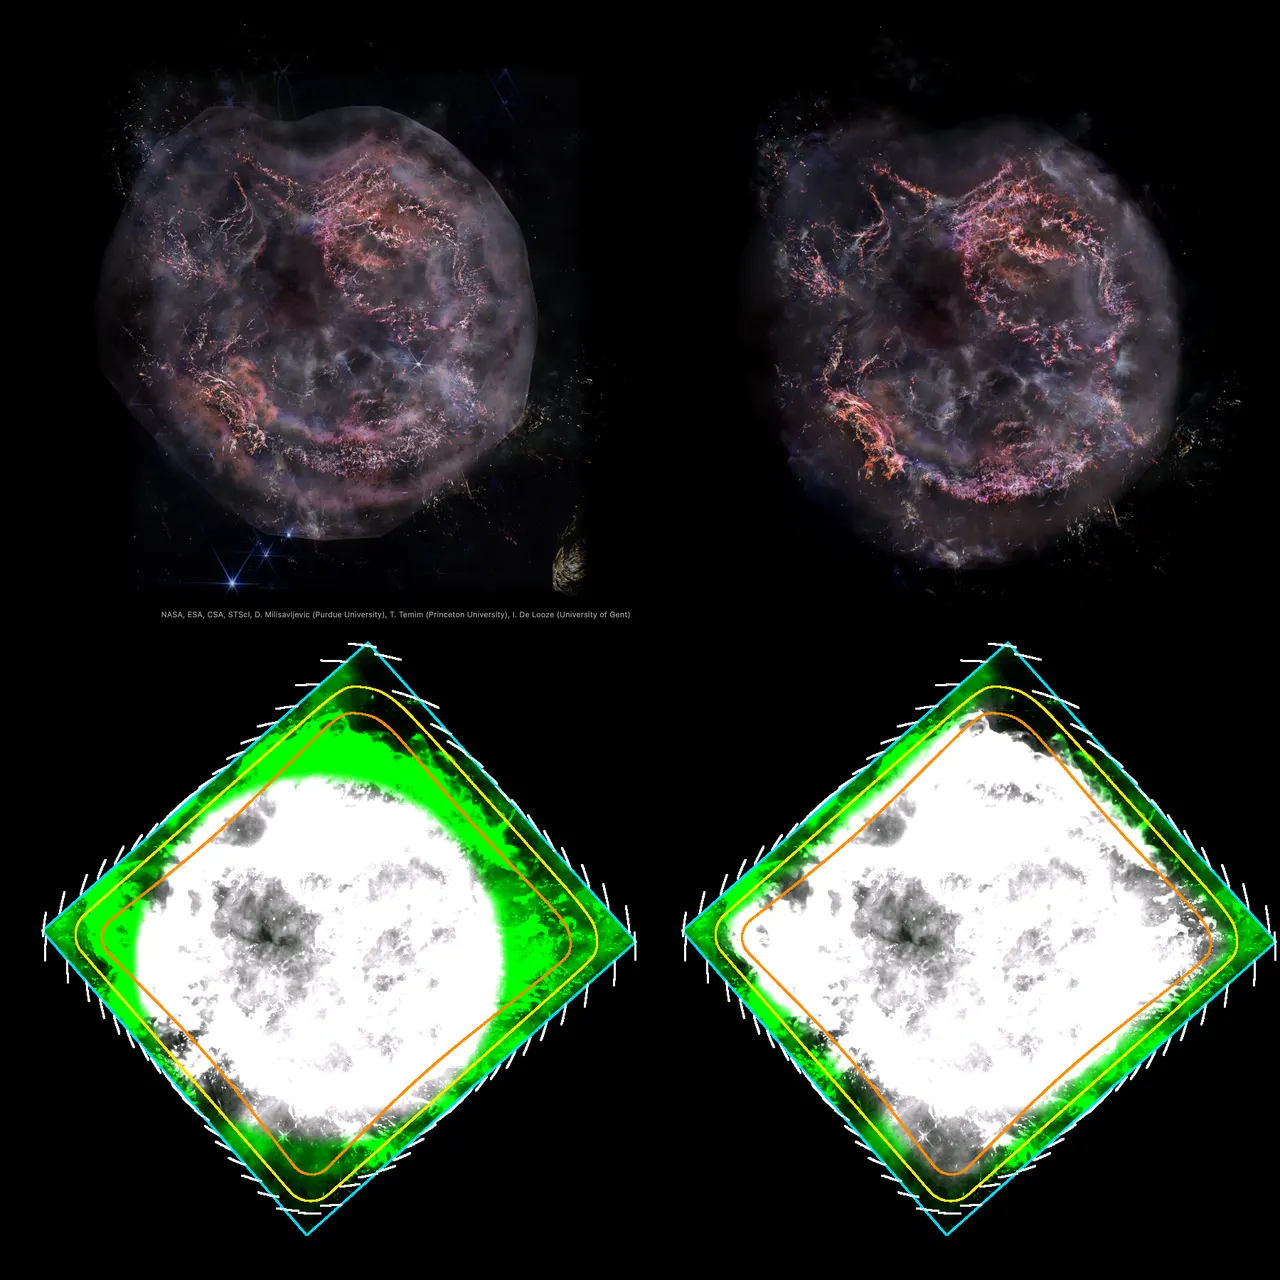
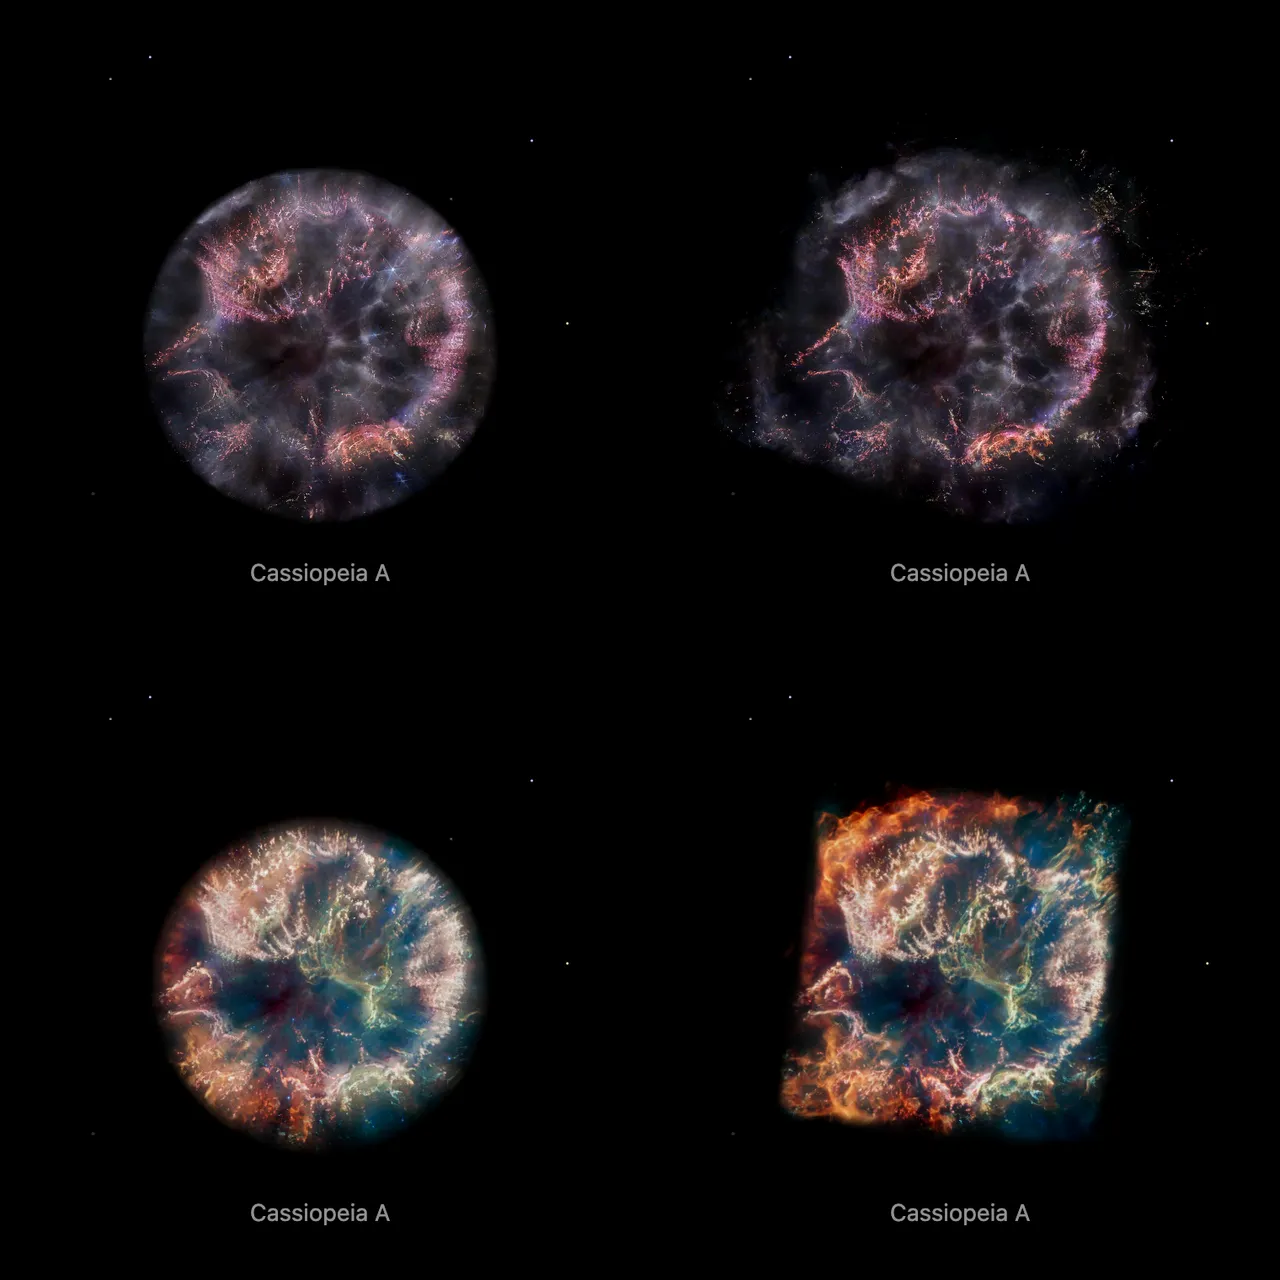
docs(objects): show Cassiopeia A's page before and after the rebake in both Webb datasets

diff --git a/src/objects/cassiopeia-a-layers/README.md b/src/objects/cassiopeia-a-layers/README.md
@@ -29,17 +29,9 @@ ESA/Webb's NIRCam picture of the supernova remnant Cassiopeia A, drawn as the sh
 
 ## Evidence
 
-![Cassiopeia A turned: obliquely, farther round, and from above](evidence/2026-10-04/views.jpg)
+![Cassiopeia A's page as it opens, before and after the rebake of 2026-10-09: near infrared above, mid infrared below](evidence/2026-10-09/before-after.webp)
 
-The page in headless Chromium at 1440 × 900, device pixel ratio 2, on 2026-10-04, with the camera turned. No page errors.
-
-![Cassiopeia A as its page opens and at the nearest view](evidence/2026-10-04/front.jpg)
-
-The same page as it opens, and from the nearest the camera comes.
-
-![Before and after the rebake of 2026-10-09: this bank in the Earth view, and the light the MIRI bank draws inside its boundary](evidence/2026-10-09/before-after.webp)
-
-Top: this bank in the Earth view before the rebake (its stars and their spikes kept) and after it (the rounded boundary, the stars removed with their spikes). Bottom: the MIRI bank's picture, its light above the sky drawn in white and left out in green, on the old 142.8″ circle (69.9% drawn) and on the boundary (87.1%), as [its README](../cassiopeia-a-miri-layers/README.md) reports. Lab captures, headless Chromium at 1440 × 900, device pixel ratio 2.
+The page as it opens, in each Webb dataset: left, `main`'s banks (a circle, the stars and their spikes kept); right, this rebake (the rounded boundary, the outer knots beyond the shock, the stars removed with their spikes). The same Earth view and crop for all four, the site in headless Chromium at 1440 × 900, device pixel ratio 2, on 2026-10-09. No page errors. Refreshed turned and nearest views of this version follow.
 
 The bake's tests ([shape-speed.test.ts](../../../packages/bake/src/image-layers/shape-speed.test.ts), [shape-patches.test.ts](../../../packages/bake/src/image-layers/shape-patches.test.ts)) put a knot measured approaching at 12 km/s 6″ in front of the plane and one receding at 16 km/s 8″ behind it under a law of 2 km/s per arcsecond, keep an unmeasured knot on the plane, find the glow on two walls as far in front of the plane as behind it, the far one holding no less than the near one, composite the leaves in the order the stack paints them against the flat bake of the same picture, and check that two patches that share a pixel stand at the same depth there. The Ring Nebula's and NGC 2392's banks, baked again with this code, are the same as published, file for file.
 

diff --git a/src/objects/cassiopeia-a-miri-layers/README.md b/src/objects/cassiopeia-a-miri-layers/README.md
@@ -32,15 +32,7 @@ ESA/Webb's mid-infrared picture of the supernova remnant Cassiopeia A, as a shel
 
 ## Evidence
 
-![Cassiopeia A in Webb's mid-infrared picture, turned: obliquely, farther round, and from above](evidence/2026-10-05/views.jpg)
-
-The page with this dataset selected, in headless Chromium at 1440 × 900, device pixel ratio 2, on 2026-10-05, with the camera turned. No page errors.
-
-![The same dataset as the page opens on it, at the nearest view, and there turned](evidence/2026-10-05/front.jpg)
-
-The same dataset as the page opens on it, from the nearest the camera comes, and from there turned.
-
-Both pictures are of the bank before 2026-10-09, drawn to the 142.8″ circle with its stars. The rebake of 2026-10-09 was checked in the lab (Earth view, turned 60°, and the Original beside them, headless Chromium at 1440 × 900, device pixel ratio 2, no page errors) and by the scans below; its pictures stay in ignored `output/cas-a-miri/`.
+The page as it opens in this dataset, before and after the rebake of 2026-10-09, is the lower row of [the near-infrared bank's evidence](../cassiopeia-a-layers/README.md#evidence). The rebake was also checked in the lab (Earth view, turned 60°, and the Original beside them, headless Chromium at 1440 × 900, device pixel ratio 2, no page errors) and by the scans below. Refreshed turned and nearest views of this version follow.
 
 The bake code this rebake added: the filled part standing for the frame (`fadeOutline.filledCornersPixels`; [shape-speed.test.ts](../../../packages/bake/src/image-layers/shape-speed.test.ts) draws a picture lit everywhere inside a diamond's corners, and nothing past them where the frame alone would), the generator's `--bank` (the NIRCam table it writes is the same, byte for byte), and the star pass's green and size limits ([star-color.test.ts](../../../labs/nebula/packages/reconstruction/src/star-removal/star-color.test.ts) gives a blue-green knot back that red alone would take).
 
